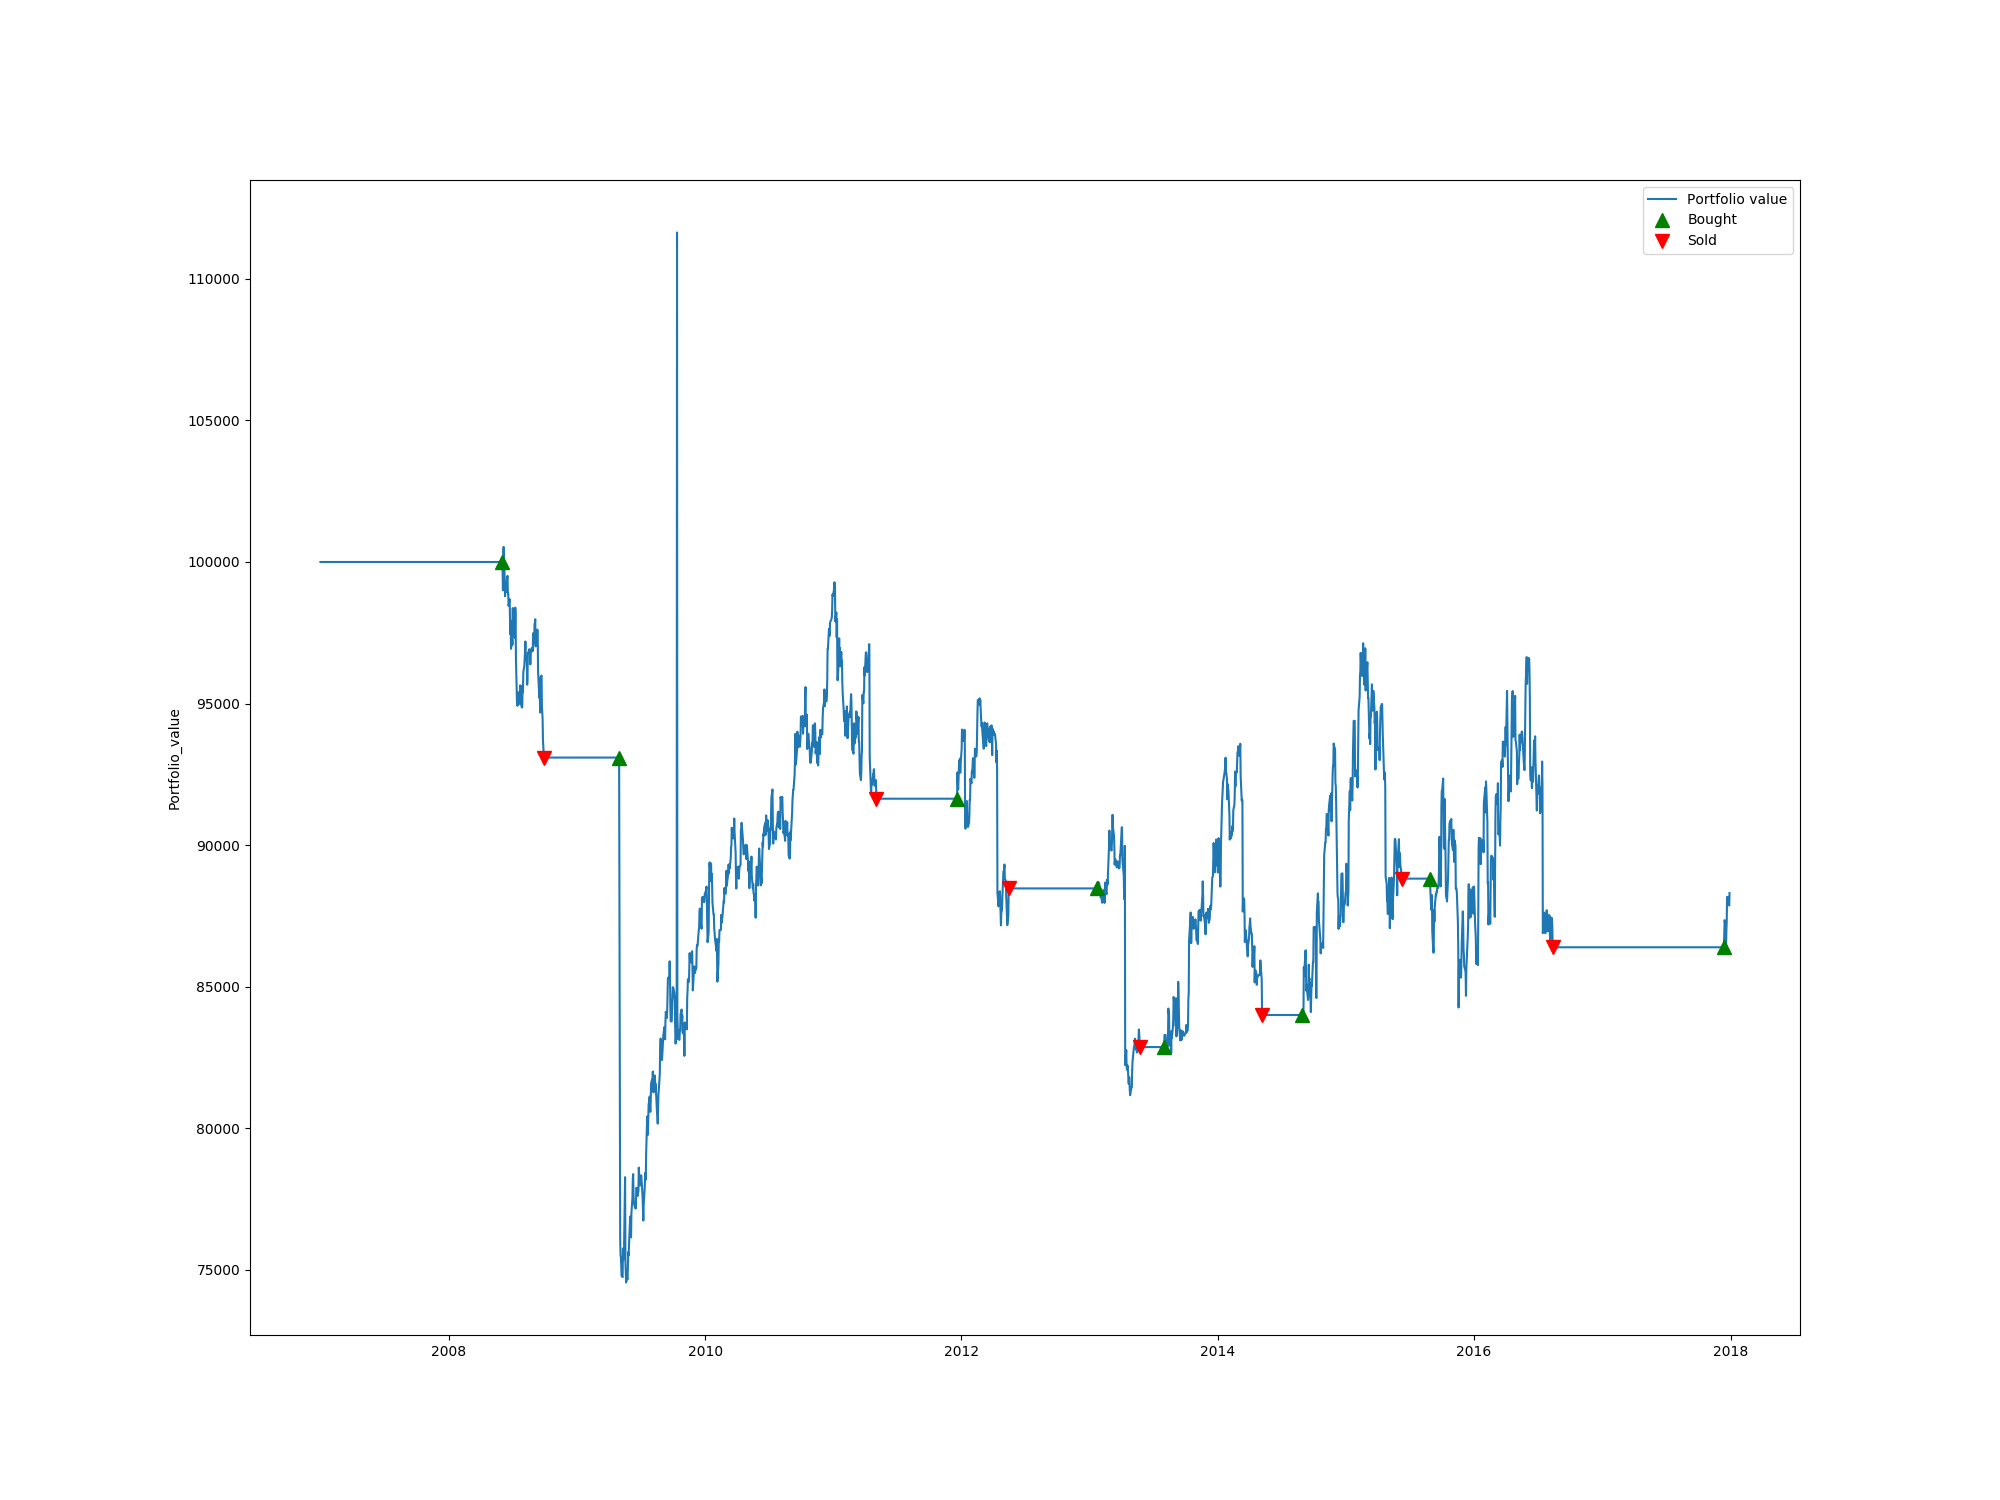
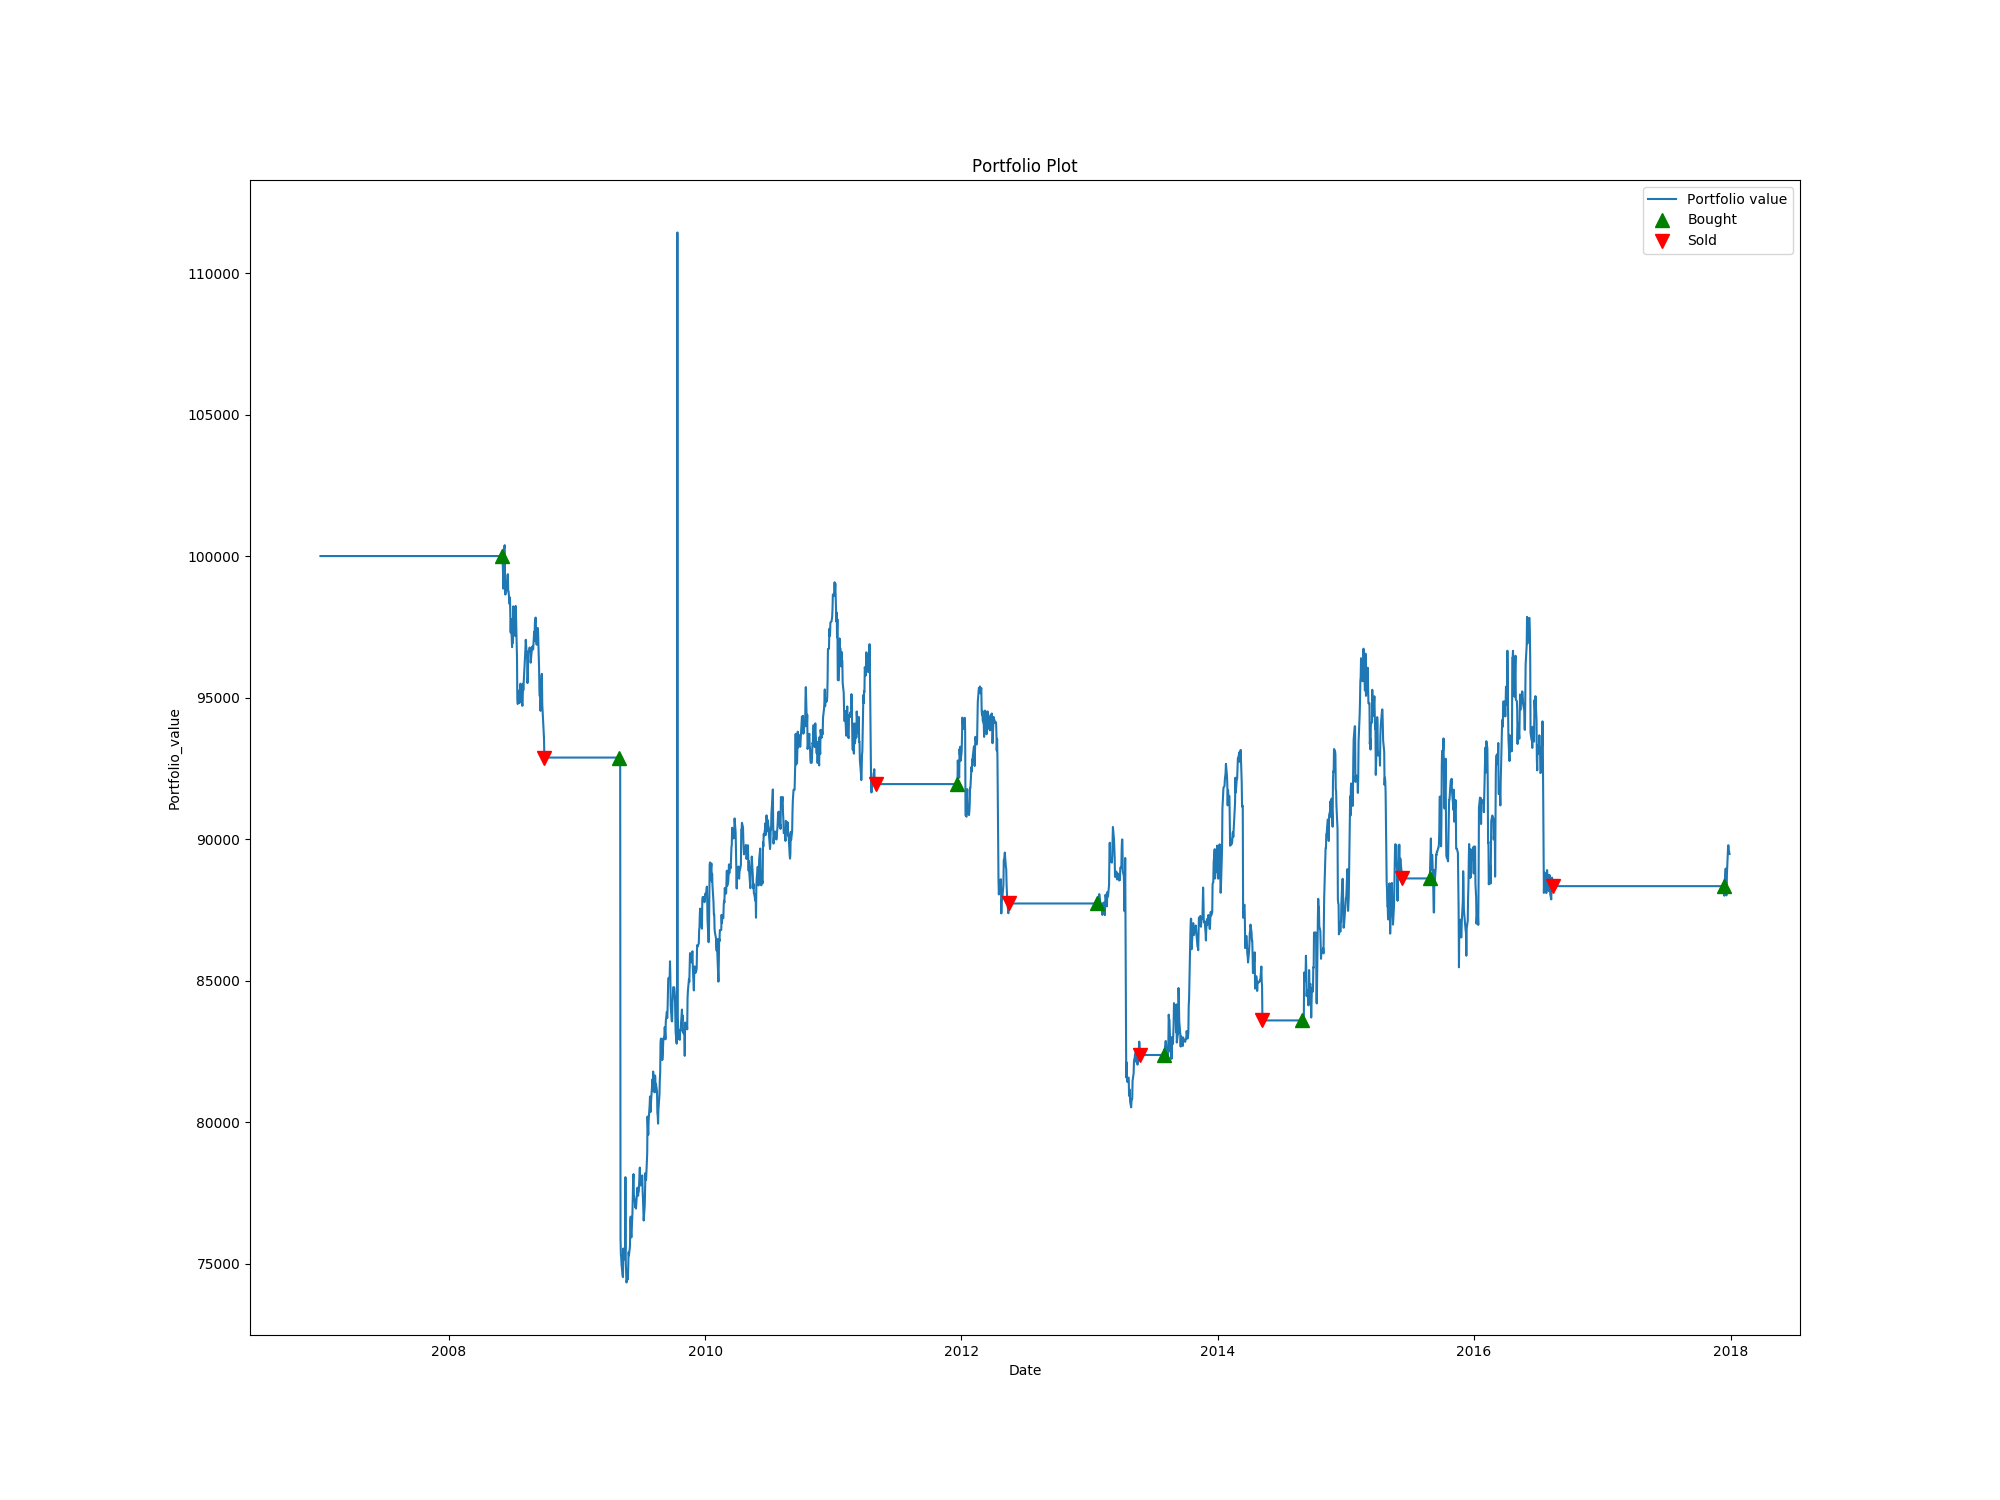
Fix bugs and add comments

diff --git a/ma_crossover.py b/ma_crossover.py
@@ -20,18 +20,22 @@ class MovingAverageCrossover:
         self.close_price = self.stock_data['Close'] #get the closing prices
 
         """ Get all weekdays and fill dates with latest price when price is not available """
+
         all_weekdays = pd.date_range(start=self.start_date, end=self.end_date, freq='B') 
         self.close_price = self.close_price.reindex(all_weekdays)
         self.close_price = self.close_price.fillna(method='ffill')
 
     def calc_ma(self):
+
+        """ Function to calculate moving averages """
+
         self.sma = self.close_price.rolling(window=self.short_window).mean() #calculate short term moving average
         self.lma = self.close_price.rolling(window=self.long_window).mean() #calculate long term moving average
 
     def generate_signals(self):
 
         """ Generate buy and sell trade signals """
-
+        self.close_price = self.close_price.shift(1) # to remove look ahead bias shift closing prices by 1 day
         self.signals = pd.DataFrame(index=self.close_price.index)
         self.signals['signal'] = 0.0
         self.signals['signal'][self.short_window:] = np.where(self.sma[self.short_window:]>self.lma[self.short_window:],1.0,0.0) #1 when short term average is greater than long term average
@@ -49,6 +53,7 @@ class MovingAverageCrossover:
         ax.plot(self.signals.loc[self.signals.positions == -1.0].index, self.sma[self.signals.positions == -1.0], 'v', markersize=10, color='r', label="Sell signal")
         ax.set_xlabel('Date')
         ax.set_ylabel('Adjusted closing price')
+        ax.set_title('Moving average crossover plot with buy and sell signals')
         ax.legend()
         plt.savefig('signals_with_ma.png')
         #plt.show()
@@ -59,7 +64,7 @@ class MovingAverageCrossover:
 
         self.positions = pd.DataFrame(index=self.signals.index).fillna(0.0)
         self.positions['positioninrs'] = self.stocks_per_trade*self.signals['signal'] #each position has stocks equal to stocks per trade specified
-        self.portfolio = self.positions.multiply(self.close_price, axis=0)
+        self.portfolio = self.positions.multiply(self.close_price, axis=0) #multiply positions with stock price on that day to get value
         self.pos_diff = self.positions.diff()
         self.portfolio['holdings'] = (self.positions.multiply(self.close_price,axis=0)).sum(axis=1) #total amount in holdings
         self.portfolio['cash'] = self.capital - (self.pos_diff.multiply(self.close_price,axis=0)).sum(axis=1).cumsum() #total in cash
@@ -68,8 +73,11 @@ class MovingAverageCrossover:
         del self.portfolio['positioninrs']
 
     def plot_portfolio(self):
+
+        """ Function for plotting the portfolio value graph """
+
         fig = plt.figure(figsize=(20,15))
-        ax = fig.add_subplot(111,ylabel="Portfolio_value")
+        ax = fig.add_subplot(111,ylabel="Portfolio_value", xlabel="Date",title = "Portfolio Plot")
         ax.plot(self.portfolio['total'].index, self.portfolio['total'], label = "Portfolio value")
         ax.plot(self.portfolio.loc[self.signals.positions == 1.0].index, self.portfolio.total[self.signals.positions==1.0], '^', markersize=10, color='g', label = "Bought")
         ax.plot(self.portfolio.loc[self.signals.positions == -1.0].index, self.portfolio.total[self.signals.positions==-1.0], 'v', markersize=10, color='r', label = "Sold")
@@ -78,7 +86,7 @@ class MovingAverageCrossover:
         #plt.show()
 
 if __name__ == "__main__":
-    ticker = 'INFY.NS' #ticker
+    ticker = 'INFY.NS'
     start_date = '2007-01-01'
     end_date = '2017-12-31'
     short_window = 50 
@@ -95,9 +103,9 @@ if __name__ == "__main__":
     mvac.plot_portfolio()
 
     print("Portfolio total value on Dec 29, 2017 in Rs")
-    print(mvac.portfolio['total'].tail(1))
+    print(mvac.portfolio['total'].tail(1))  #get portfolio value on the last working day
 
     print("Absolute return as of Dec 29, 2018 in Rs")
-    print((((mvac.portfolio['total'].tail(1)/float(mvac.capital))-float(1))*100)*1000)
+    print((((mvac.portfolio['total'].tail(1)/float(mvac.capital))-float(1))*100)*1000) #Total returns in Rs
 
 

diff --git a/README.md b/README.md
@@ -31,7 +31,3 @@ python3 ma_crossover.py
 ```
 
 ## Bugs
-
-* Fix No look ahead bias
-* Add comments
-* Add labels and title to graphs
